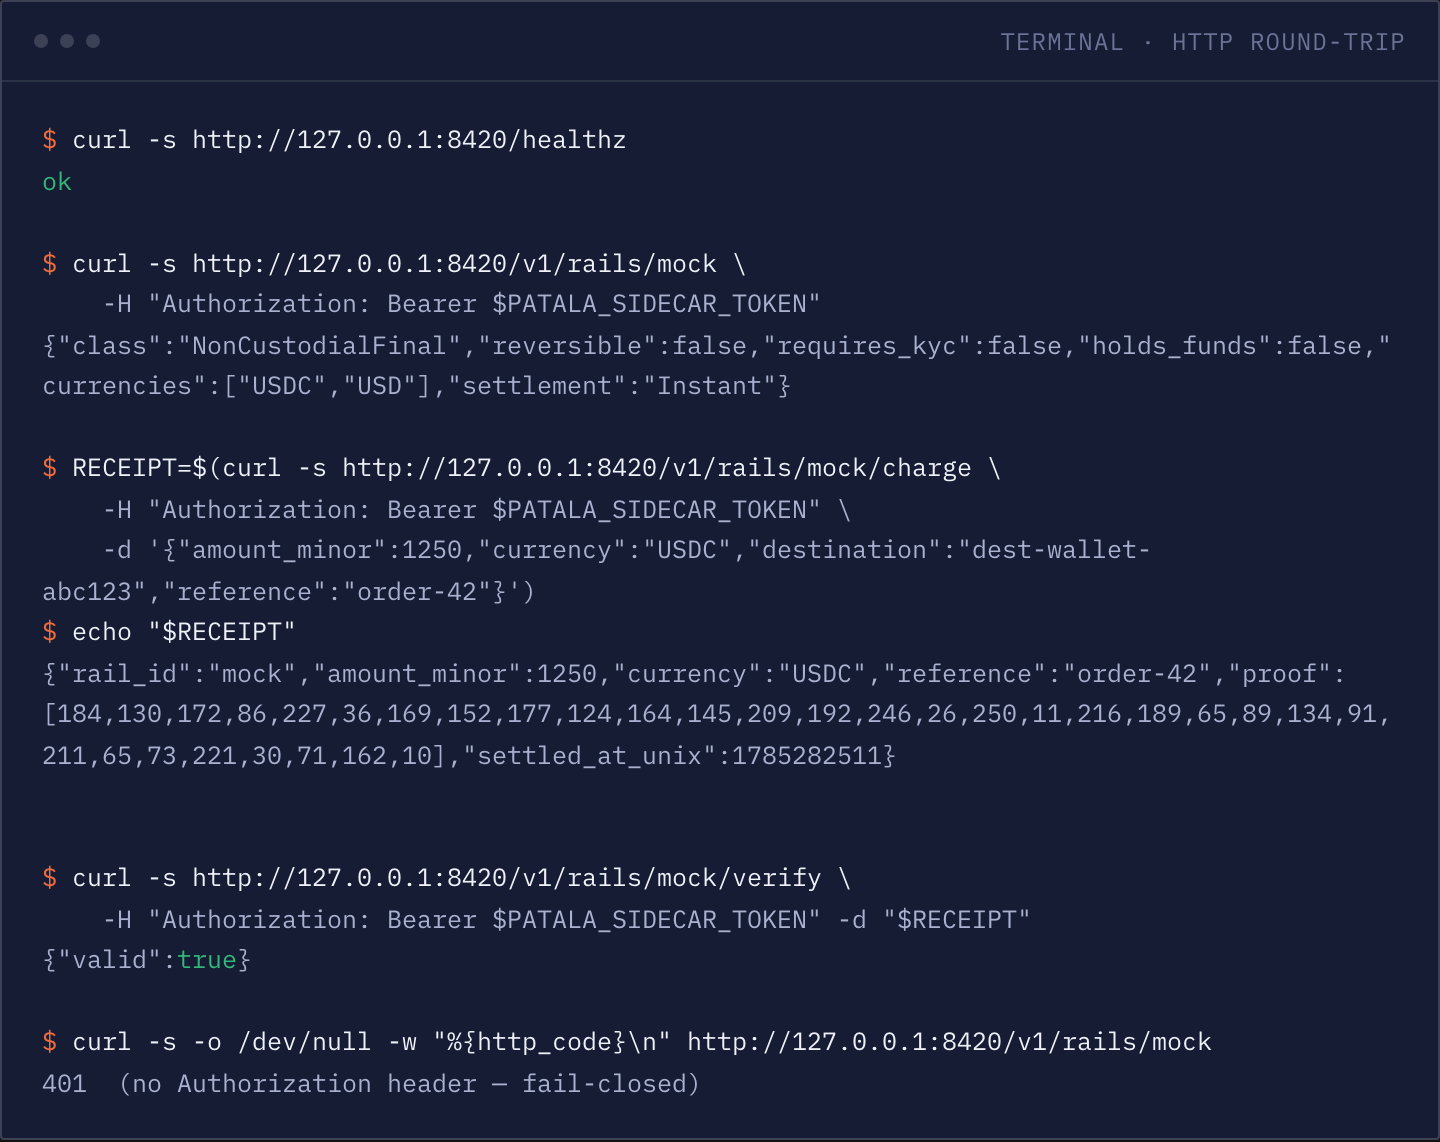
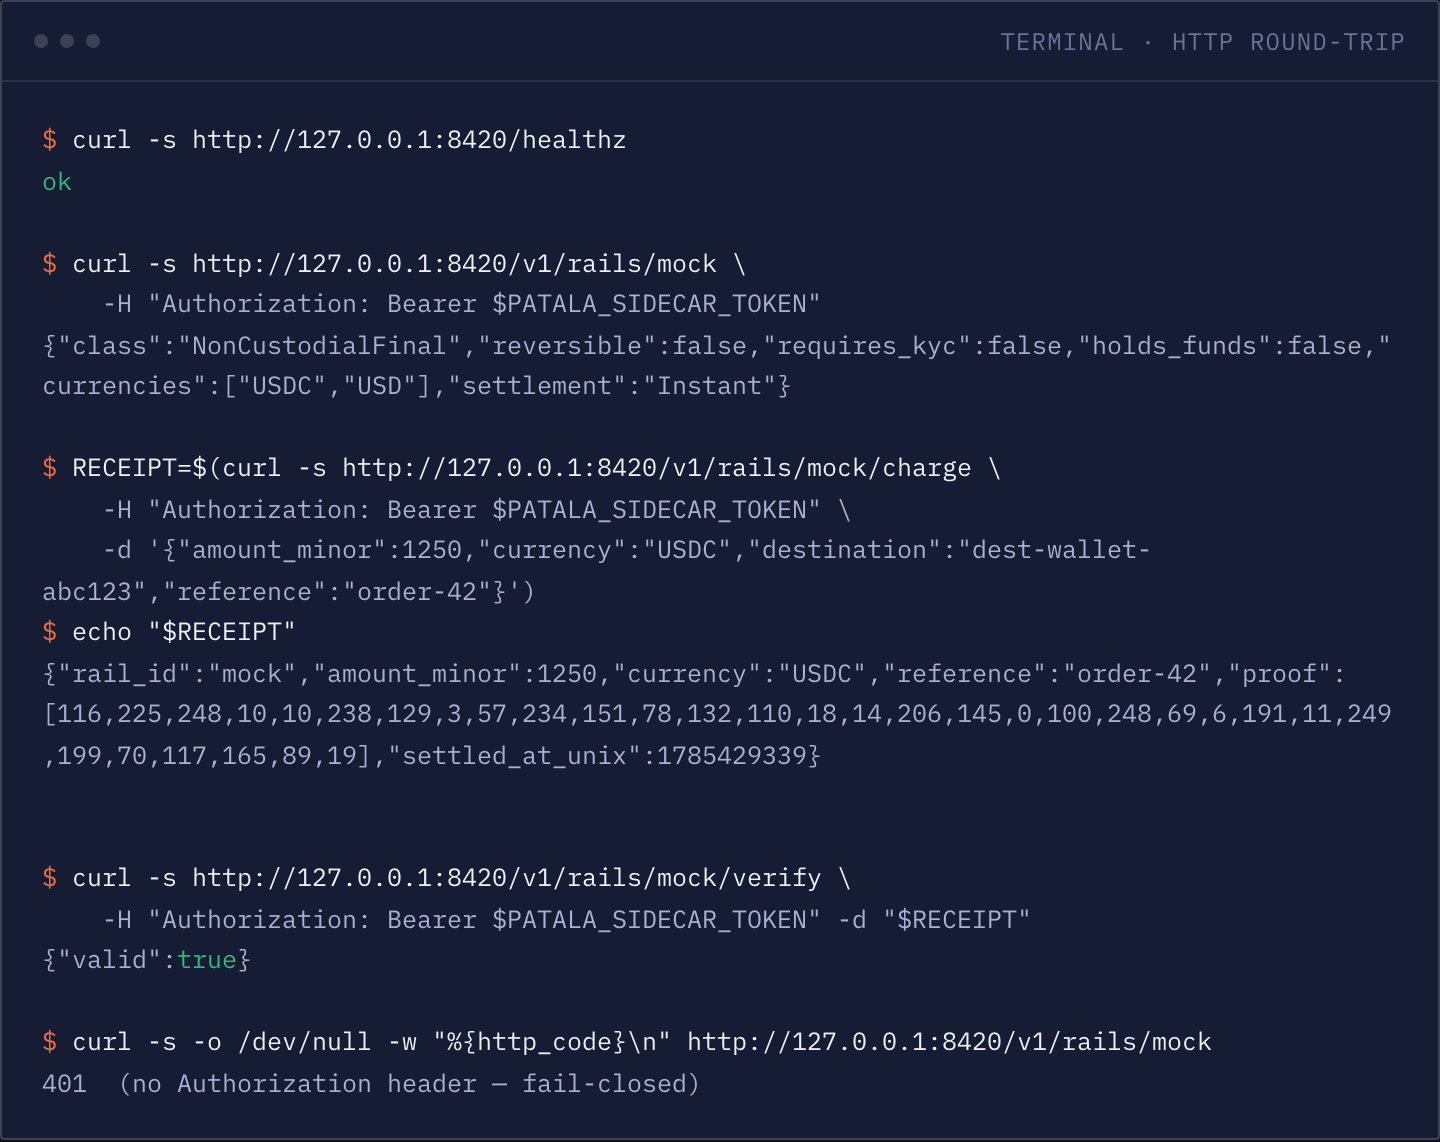
docs+site: close B6 — refresh test counts to a live run, regenerate proof shots
The repo grew real tests since the last capture (new patala-sidecar
tests/validate_destination.rs, more solana/stellar/core/hyperswitch/py
cases) but the landing, README and site/docs/status.md still quoted the
old counts (168/547 on the site, 249 in the docs — three different stale
numbers for the same claim). Re-ran the actual gates and used the real
output everywhere:

- default `cargo test --workspace`: 260 passed (was quoted as 168 or 249)
- `patala-fiat --all-features` + `patala-py --features fiat-all`: 572
  (this one was already correct on the README, now matches the site too)
- per-crate breakdown table on the landing refreshed row by row against
  the same run (patala-go now genuinely reports 19 top-level tests / 10
  required, not the stale 12/5)
- re-ran scripts/capture-transcripts.sh (sidecar boot, curl round-trips,
  cargo test --workspace, python + Go binding smoke tests — all captured
  live, nothing skipped) and scripts/render-shots.mjs, so the proof-section
  screenshots show the real current numbers instead of an old run
- corrected the proof images' stale width/height attributes to the new
  intrinsic size (taller Go/Python/test-suite panes) so the browser doesn't
  reserve the old, now-wrong aspect ratio before the image loads

The "0 rails run against a live network" honesty caveat is untouched and
still the same wording everywhere it appears.

Agent-generated, machine-verified, NOT human-reviewed.

Changed region(s): [[0.0312, 0.613, 0.9688, 0.6743]]

diff --git a/site/index.html b/site/index.html
@@ -183,7 +183,7 @@
 <body>
 <nav class="top"><div class="wrap">
   <a class="brand" href="#top">
-    <svg class="cowrie" viewBox="0 0 128 128" aria-hidden="true"><path fill="currentColor" fill-rule="evenodd" d="M64 12 C83 12 100 33 100 62 C100 93 83 116 64 116 C45 116 28 93 28 62 C28 33 45 12 64 12 Z M64 26 L70 32 L65.5 38 L70 45 L65.5 51 L70 58 L65.5 64 L70 71 L65.5 77 L70 84 L65.5 90 L70 97 L64 104 L58 97 L62.5 90 L58 84 L62.5 77 L58 71 L62.5 64 L58 58 L62.5 51 L58 45 L62.5 38 L58 32 Z"/></svg>
+    <img class="cowrie" src="./assets/logo.svg" alt="" width="24" height="24">
     <b>patala</b>
   </a>
   <div class="nlinks">
@@ -211,7 +211,7 @@
     </div>
     <div class="honest-box">
       <span class="status pending">UNVERIFIED AGAINST LIVE</span>
-      <p>168 offline tests pass in the default build, 547 more with every processor feature compiled in — but no rail in this repo has been run against a live network or a live merchant account. Read the <a href="./docs.html#status">full status</a> before you trust it with real money.</p>
+      <p>260 offline tests pass in the default build, 572 more with every processor feature compiled in — but no rail in this repo has been run against a live network or a live merchant account. Read the <a href="./docs.html#status">full status</a> before you trust it with real money.</p>
     </div>
   </div>
   <div class="seal-wrap">
@@ -299,8 +299,8 @@
   </div>
 
   <div class="stat-strip">
-    <div class="stat"><span class="stat-num tabular">168</span><span class="stat-lbl">offline tests, default build</span></div>
-    <div class="stat"><span class="stat-num tabular">547</span><span class="stat-lbl">more tests, every processor feature on</span></div>
+    <div class="stat"><span class="stat-num tabular">260</span><span class="stat-lbl">offline tests, default build</span></div>
+    <div class="stat"><span class="stat-num tabular">572</span><span class="stat-lbl">more tests, every processor feature on</span></div>
     <div class="stat"><span class="stat-num tabular">0</span><span class="stat-lbl">rails run against a live network from this repo</span></div>
   </div>
 
@@ -310,7 +310,7 @@
       <tbody>
         <tr>
           <td class="mono">patala-core</td><td>&mdash;</td>
-          <td class="mono tabular">19 + 1 doctest</td>
+          <td class="mono tabular">35 + 2 doctests</td>
           <td><span class="status settled">OFFLINE BY DESIGN</span></td>
         </tr>
         <tr>
@@ -320,27 +320,27 @@
         </tr>
         <tr>
           <td class="mono">patala-solana</td><td>Non-custodial, final</td>
-          <td class="mono tabular">41 (+1 gated) + 1 doctest</td>
+          <td class="mono tabular">56 (+1 gated) + 2 doctests</td>
           <td><span class="status pending">NO — TESTNET STEP IN README</span></td>
         </tr>
         <tr>
           <td class="mono">patala-stellar</td><td>Non-custodial, final</td>
-          <td class="mono tabular">29 (+1 gated) + 1 doctest</td>
+          <td class="mono tabular">56 (+1 gated) + 4 doctests</td>
           <td><span class="status pending">NO — TESTNET STEP IN README</span></td>
         </tr>
         <tr>
           <td class="mono">patala-hyperswitch</td><td>Custodial, reversible</td>
-          <td class="mono tabular">20</td>
+          <td class="mono tabular">23</td>
           <td><span class="status pending">NO — NEEDS A LIVE INSTANCE</span></td>
         </tr>
         <tr>
           <td class="mono">patala-py / patala-go</td><td>&mdash;</td>
-          <td class="mono tabular">14 Rust + 24 Go</td>
+          <td class="mono tabular">20 Rust + 19 Go</td>
           <td><span class="status settled">EXECUTED, CI-ENFORCED</span></td>
         </tr>
         <tr>
           <td class="mono">patala-sidecar</td><td>&mdash;</td>
-          <td class="mono tabular">9 (6 HTTP + 3 unit)</td>
+          <td class="mono tabular">15 (12 HTTP + 3 unit)</td>
           <td><span class="status settled">EXECUTED</span></td>
         </tr>
       </tbody>
@@ -418,15 +418,15 @@
       <figcaption>Real HTTP round-trips against it: capabilities, charge, verify — and the fail-closed 401 when the token is missing.</figcaption>
     </figure>
     <figure class="proof-item wide">
-      <div class="proof-scroll tall"><img src="./assets/shots/test-suite.webp" width="920" height="940" alt="Terminal: cargo test --workspace running every crate's tests, all reporting test result ok, followed by an awk one-liner that tallies the real total: 168 passed."></div>
-      <figcaption><code>cargo test --workspace</code> — the same 168 offline tests <a href="#status">the status table</a> cites, tallied here by a real <code>awk</code> one-liner reading the log, not typed in by hand. Scroll for the full run.</figcaption>
+      <div class="proof-scroll tall"><img src="./assets/shots/test-suite.webp" width="920" height="981" alt="Terminal: cargo test --workspace running every crate's tests, all reporting test result ok, followed by an awk one-liner that tallies the real total: 260 passed."></div>
+      <figcaption><code>cargo test --workspace</code> — the same 260 offline tests <a href="#status">the status table</a> cites, tallied here by a real <code>awk</code> one-liner reading the log, not typed in by hand. Scroll for the full run.</figcaption>
     </figure>
     <figure class="proof-item">
-      <div class="proof-scroll"><img src="./assets/shots/binding-python.webp" width="720" height="448" alt="Terminal: the Python smoke test running under a real interpreter — capabilities, quote, charge, verify, tampered-receipt rejection, error mapping and webhook checks, all OK, ending ALL PYTHON SMOKE ASSERTIONS PASSED."></div>
+      <div class="proof-scroll"><img src="./assets/shots/binding-python.webp" width="720" height="509" alt="Terminal: the Python smoke test running under a real interpreter — capabilities, quote, charge, verify, tampered-receipt rejection, error mapping and webhook checks, all OK, ending ALL PYTHON SMOKE ASSERTIONS PASSED."></div>
       <figcaption>The Python binding, over a real interpreter — same MockRail round-trip, called from <code>patala-py</code>.</figcaption>
     </figure>
     <figure class="proof-item">
-      <div class="proof-scroll"><img src="./assets/shots/binding-go.webp" width="720" height="837" alt="Terminal: cd patala-go && make test — 12 Go binding tests over real cgo, all PASS, ending go-test-gate: OK with 12 top-level tests passed and 5 required tests present."></div>
+      <div class="proof-scroll"><img src="./assets/shots/binding-go.webp" width="720" height="1309" alt="Terminal: cd patala-go && make test — 19 Go binding tests over real cgo, all PASS, ending go-test-gate: OK with 19 top-level tests passed and 10 required tests present."></div>
       <figcaption>The Go binding, over real cgo — the same UniFFI surface, generated for Go.</figcaption>
     </figure>
   </div>

diff --git a/README.md b/README.md
@@ -26,7 +26,7 @@ either a crate, a trait, or a process you run next to your own app.
 ## Status: foundational — built and unit-tested, rails unverified against live networks
 
 The core, the rails and the polyglot layer are all in this repo. `make check`
-runs two passes and both are gates: **249 offline tests** across the seven
+runs two passes and both are gates: **260 offline tests** across the seven
 landed crates in the default workspace build, and **572 more** once every
 processor feature is compiled in
 (`cargo test -p patala-fiat --all-features` + `cargo test -p patala-py

diff --git a/site/docs/status.md b/site/docs/status.md
@@ -3,7 +3,7 @@
 ## Foundational — built and unit-tested, rails unverified against live networks
 
 The core, the rails and the polyglot layer are all in the repo. `make check`
-runs two passes and both are gates: **249 offline tests** across the seven
+runs two passes and both are gates: **260 offline tests** across the seven
 landed crates in the default workspace build, and **572 more** once every
 processor feature is compiled in (`cargo test -p patala-fiat --all-features` +
 `cargo test -p patala-py --features fiat-all`). Clippy-clean, fmt-clean; the
